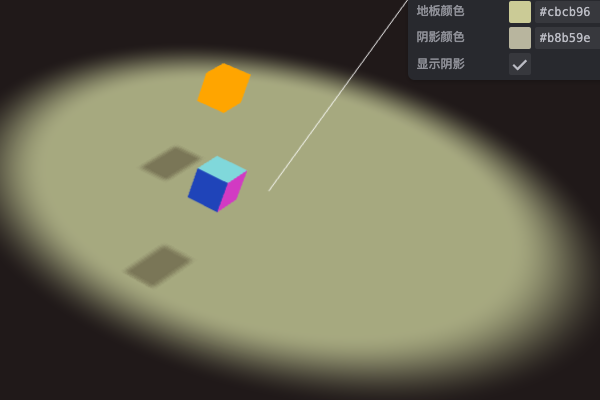
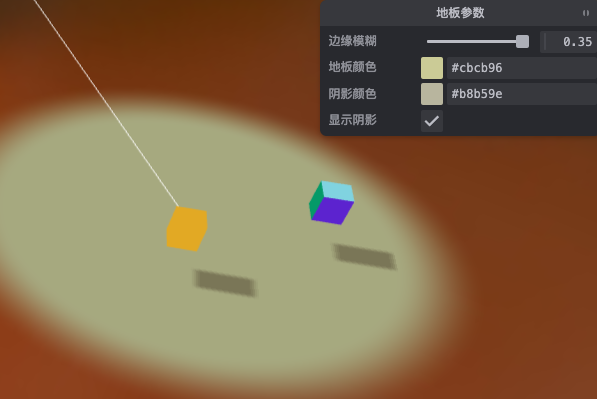
增加了 普通图片的 全景skybox

diff --git a/src/plugins/skyBox/components/skyBoxAmesh.vue b/src/plugins/skyBox/components/skyBoxAmesh.vue
@@ -1,0 +1,61 @@
+<!--
+ * @Description: 
+ * @Version: 1.668
+ * @Autor: 地虎降天龙
+ * @Date: 2024-01-25 10:23:43
+ * @LastEditors: 地虎降天龙
+ * @LastEditTime: 2024-01-26 12:10:21
+-->
+
+<template>
+	<TresMesh>
+		<TresBoxGeometry :args="[props.size, props.size, props.size]" />
+		<TresShaderMaterial v-bind="tsMaterial" />
+	</TresMesh>
+</template>
+
+<script lang="ts" setup>
+import * as THREE from "three"
+import { useTexture } from '@tresjs/core'
+
+const props = withDefaults(defineProps<{
+	texture: string
+	size?: number
+}>(), {
+	size: 1000
+})
+
+const { map: pTexture } = await useTexture({ map: props.texture })
+pTexture.wrapS = pTexture.wrapT = THREE.ClampToEdgeWrapping
+pTexture.generateMipmaps = false
+pTexture.magFilter = THREE.LinearFilter
+pTexture.minFilter = THREE.LinearFilter
+
+const tsMaterial = {
+	uniforms: {
+		uSkybox: { type: "t", value: pTexture }
+	},
+	side: THREE.BackSide,
+	vertexShader: `
+		varying vec3 vFragPos;
+
+		void main() {
+				vFragPos = position.xyz;
+				vec4 viewSpace = vec4(mat3(modelViewMatrix) * position, 0.0);
+				viewSpace.w = 1.0;
+				gl_Position = projectionMatrix * viewSpace;    
+		}`,
+
+	fragmentShader: `
+		uniform sampler2D uSkybox;
+		varying vec3 vFragPos;
+		const float PI = 3.14159265359;
+		void main() {
+				vec3 dir = normalize(vFragPos);
+				float v = (asin(dir.y) + PI * 0.5) / (PI); 
+				float u = (atan(dir.x, dir.z) + PI) / (PI * 2.0);
+				gl_FragColor = texture2D(uSkybox, vec2(u, v));
+		}`,
+	depthWrite: true,
+}
+</script>

diff --git a/src/plugins/skyBox/pages/skyBoxA.vue b/src/plugins/skyBox/pages/skyBoxA.vue
@@ -1,0 +1,45 @@
+<!--
+ * @Description: 
+ * @Version: 1.668
+ * @Autor: 地虎降天龙
+ * @Date: 2024-01-25 10:20:13
+ * @LastEditors: 地虎降天龙
+ * @LastEditTime: 2024-01-26 12:23:57
+-->
+
+<template>
+	<TresCanvas v-bind="tcConfig">
+		<TresPerspectiveCamera :position="[15, 15, 15]" :fov="45" :near="0.1" :far="10000" :look-at="[0, 0, 0]" />
+		<OrbitControls enableDamping />
+		<TresAmbientLight :intensity="10.0" />
+
+		<Box :args="[3, 3, 3]" color="orange" :position="[3, 2, 1]" cast-shadow />
+		<TresMesh :position="[0, 2, -4]" cast-shadow>
+			<TresBoxGeometry :args="[2, 2, 2]" />
+			<TresMeshNormalMaterial />
+		</TresMesh>
+
+		<Suspense>
+			<skyBox texture="https://cdn.polyhaven.com/asset_img/primary/kloofendal_48d_partly_cloudy_puresky.png?width=1920" />
+			<!-- ./plugins/skyBox/image/workshop_blur.jpg -->
+		</Suspense>
+	</TresCanvas>
+</template>
+
+
+<script setup lang="ts">
+import * as THREE from "three"
+import { TresCanvas } from '@tresjs/core'
+import { OrbitControls, Box } from '@tresjs/cientos'
+
+import skyBox from 'PLS/skyBox/components/skyBoxAmesh.vue'
+
+const tcConfig = {
+	clearColor: "#201919",
+	windowSize: true,
+	shadows: true,
+	toneMapping: THREE.ACESFilmicToneMapping,
+	toneMappingExposure: 0.8,
+}
+
+</script>

diff --git a/src/plugins/floor/pages/whiteFloor.vue b/src/plugins/floor/pages/whiteFloor.vue
@@ -4,7 +4,7 @@
  * @Autor: 地虎降天龙
  * @Date: 2024-01-25 10:20:13
  * @LastEditors: 地虎降天龙
- * @LastEditTime: 2024-01-26 10:51:08
+ * @LastEditTime: 2024-01-26 12:23:53
 -->
 
 <template>
@@ -25,7 +25,7 @@
 		</Suspense>
 
 		<Suspense>
-			<skyBox texture="./plugins/floor/image/workshop_blur.jpg" />
+			<skyBox texture="./plugins/skyBox/image/workshop_blur.jpg" />
 		</Suspense>
 	</TresCanvas>
 </template>
@@ -36,7 +36,7 @@ import * as THREE from "three"
 import { TresCanvas } from '@tresjs/core'
 import { OrbitControls, vLightHelper, Box } from '@tresjs/cientos'
 import whiteFloorMesh from '../components/whiteFloorMesh.vue'
-import skyBox from '../components/skyBox.vue'
+import skyBox from 'PLS/skyBox/components/skyBoxAmesh.vue'
 import { shallowRef, watchEffect, reactive } from 'vue'
 import { Pane } from 'tweakpane'
 

diff --git a/src/plugins/skyBox/config.js b/src/plugins/skyBox/config.js
@@ -1,0 +1,14 @@
+
+export default {
+	"name": "skyBox",
+	"title": "天空盒",
+	"intro": "都是些天空盒的例子，直接根据需求选择一个享用吧",
+	"version": "0.0.1",
+	"author": "地虎降天龙",
+	"website": "https://gitee.com/hawk86104",
+	"state": "active",
+	"require": [],
+	"preview": [
+		{ "src": "plugins/basic/base/preview/theBasic.png", "type": "img", "name": "skyBoxA", "title": "矩形jpg/png:着色器渲染" },
+	]
+}
